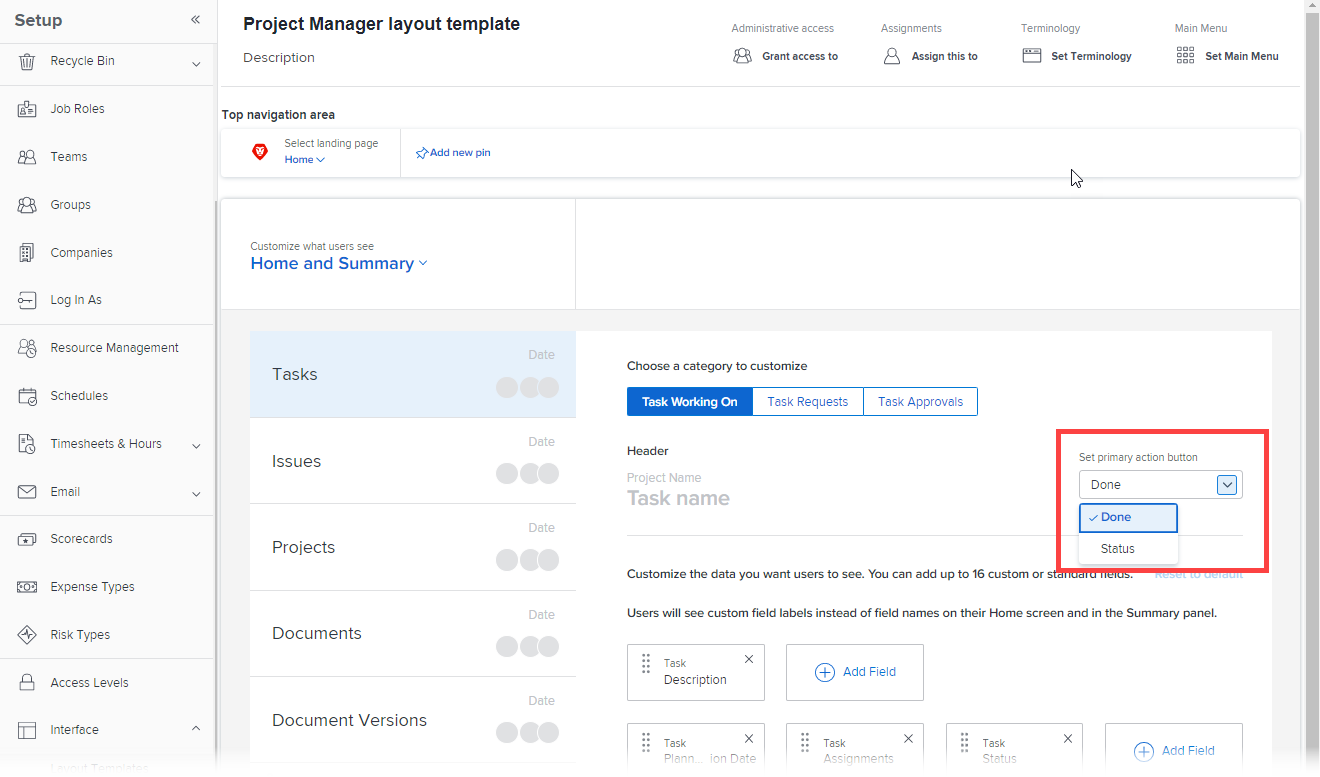
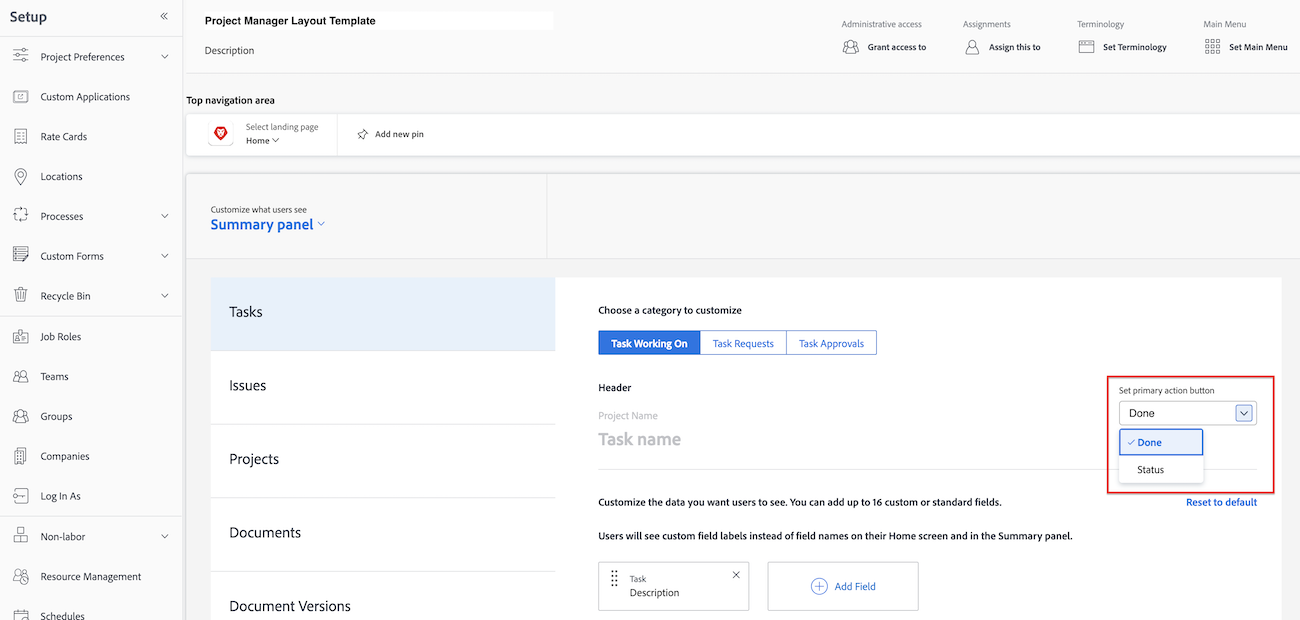
ugh

diff --git a/help/quicksilver/administration-and-setup/customize-workfront/use-layout-templates/customize-home-summary-layout-template.md b/help/quicksilver/administration-and-setup/customize-workfront/use-layout-templates/customize-home-summary-layout-template.md
@@ -1,19 +1,18 @@
 ---
-title: Customize Home and Summary Using a Layout Template
+title: Customize the Summary Panel Using a Layout Template
 user-type: administrator
 product-area: system-administration;templates;setup
 navigation-topic: layout-templates
-description: You can use a Layout Template to configure what users see when they click a task or issue in Home and in the Summary. Each configuration you make using the steps below affects the Home area and the Summary panel in the same way. These customizations don't apply to the Document Summary panel.
+description: You can use a Layout Template to configure what users see when they click a task or issue in the Summary. Each configuration you make using the steps below affects the the Summary panel. These customizations don't apply to the Document Summary panel.
 author: Alina
 feature: System Setup and Administration
 role: Admin
 exl-id: 8f64c009-09ad-45f6-8b59-5c1b4024532e
 ---
-# Customize Home and Summary using a layout template
+# Customize the Summary panel using a layout template
 
-<span class="preview">This article will be renamed to "Customize the Summary panel using a layout template" when Legacy Home is removed from Workfront with the Q4 release on October 17. 2024.</span>
 
-You can use a Layout Template to configure what users see when they click a task or issue in Home and in the Summary. Each configuration you make using the steps below affects the Home area and the Summary panel in the same way. These customizations don't apply to the Document Summary panel.
+You can use a Layout Template to configure what users see when they click a task or issue in the Summary. Each configuration you make using the steps below affects the the Summary panel. These customizations don't apply to the Document Summary panel.
 
 You can configure:
 
@@ -22,7 +21,7 @@ You can configure:
 
 You can also customize the fields that users see in the Home area when users click a project approval, document approval, or document version approval that is assigned to them.
 
-For information about the Home area, see [Use the Home area](../../../workfront-basics/using-home/using-the-home-area/use-the-home-area.md). For information about the Summary panel, see [Summary overview](../../../workfront-basics/the-new-workfront-experience/summary-overview.md).
+For information about the Summary panel, see [Summary overview](../../../workfront-basics/the-new-workfront-experience/summary-overview.md).
 
 For information about creating layout templates, see [Create and manage layout templates](../use-layout-templates/create-and-manage-layout-templates.md). 
 
@@ -62,11 +61,11 @@ To perform them for a group, you must be a manager of that group.</p> </td>
 
 +++
 
-## Customize Home and Summary using a layout template
+## Customize the Summary panel using a layout template
 
 1. Begin working on a layout template, as described in [Create and manage layout templates](../../../administration-and-setup/customize-workfront/use-layout-templates/create-and-manage-layout-templates.md).
 
-1. Click the down arrow ![](assets/dropdown-arrow.png) under **Customize what users see**, then click **Home and Summary**.
+1. Click the down arrow ![](assets/dropdown-arrow.png) under **Customize what users see**, then click **Summary panel**.
 
 1. In the list on the left, click the object type (**Tasks**, **Issues**, **Projects**, **Documents**, or **Document Versions**) that you want to customize in Home and Summary.
 
@@ -76,13 +75,13 @@ To perform them for a group, you must be a manager of that group.</p> </td>
     <tbody> 
      <tr> 
       <td role="rowheader">Tasks</td> 
-      <td> <p>In Home, your configuration for this setting affects the area to the right of a task when a user clicks the task. And, in a list of tasks, it affects the Summary panel that displays on the right side of the page when a user selects a task, then clicks the Open Summary icon <img src="assets/summary-panel-icon.png">.</p> <p>For example, you can determine which fields users see in the Details area when users select tasks in Home:</p> <p><img src="assets/home-details-adobe branding.jpg"></p> <p>And when they select a task in the Summary:</p> <p> <img src="assets/summary-details.jpg"> </p> </td> 
+      <td><p> <img src="assets/summary-details.jpg"> </p> </td> 
      </tr> 
      <tr> 
       <td role="rowheader">Issues</td> 
-      <td> <p>In Home, your configuration for this setting affects the area to the right of an issue when a user clicks the issue.</p> <p>In a list of issues, this setting affects the Summary panel that displays on the right side of the page when a user selects an issue, then clicks the Open Summary icon <img src="assets/summary-panel-icon.png">.</p> </td> 
+      <td><p>In a list of issues, this setting affects the Summary panel that displays on the right side of the page when a user selects an issue, then clicks the Open Summary icon <img src="assets/summary-panel-icon.png">.</p> </td> 
      </tr> 
-     <tr> 
+     <!--<tr> 
       <td role="rowheader">Projects</td> 
       <td>In Home, when a user clicks a project approval assigned to them, your configuration for this setting affects the area to the right of the approval.</td> 
      </tr> 
@@ -93,7 +92,7 @@ To perform them for a group, you must be a manager of that group.</p> </td>
      <tr> 
       <td role="rowheader">Document Versions</td> 
       <td>In Home, when a user clicks an approval assigned to them for a particular version of a document, your configuration for this setting affects the area to the right of the approval.</td> 
-     </tr> 
+     </tr> -->
     </tbody> 
    </table>
 
@@ -113,7 +112,7 @@ To perform them for a group, you must be a manager of that group.</p> </td>
 
    ![](assets/lt-home-add-hide-fields-adobe-branding.png)
 
-1. Repeat steps 3-6 to customize Home area and the Summary panel for any other object types.
+1. Repeat steps 3-6 to customize the Summary panel for any other object types.
 1. Click **Global settings**, near the lower left corner, then enable or disable any of the following options related to Adobe Workfront objects in Home and Summary:
 
    <table style="table-layout:auto"> 
